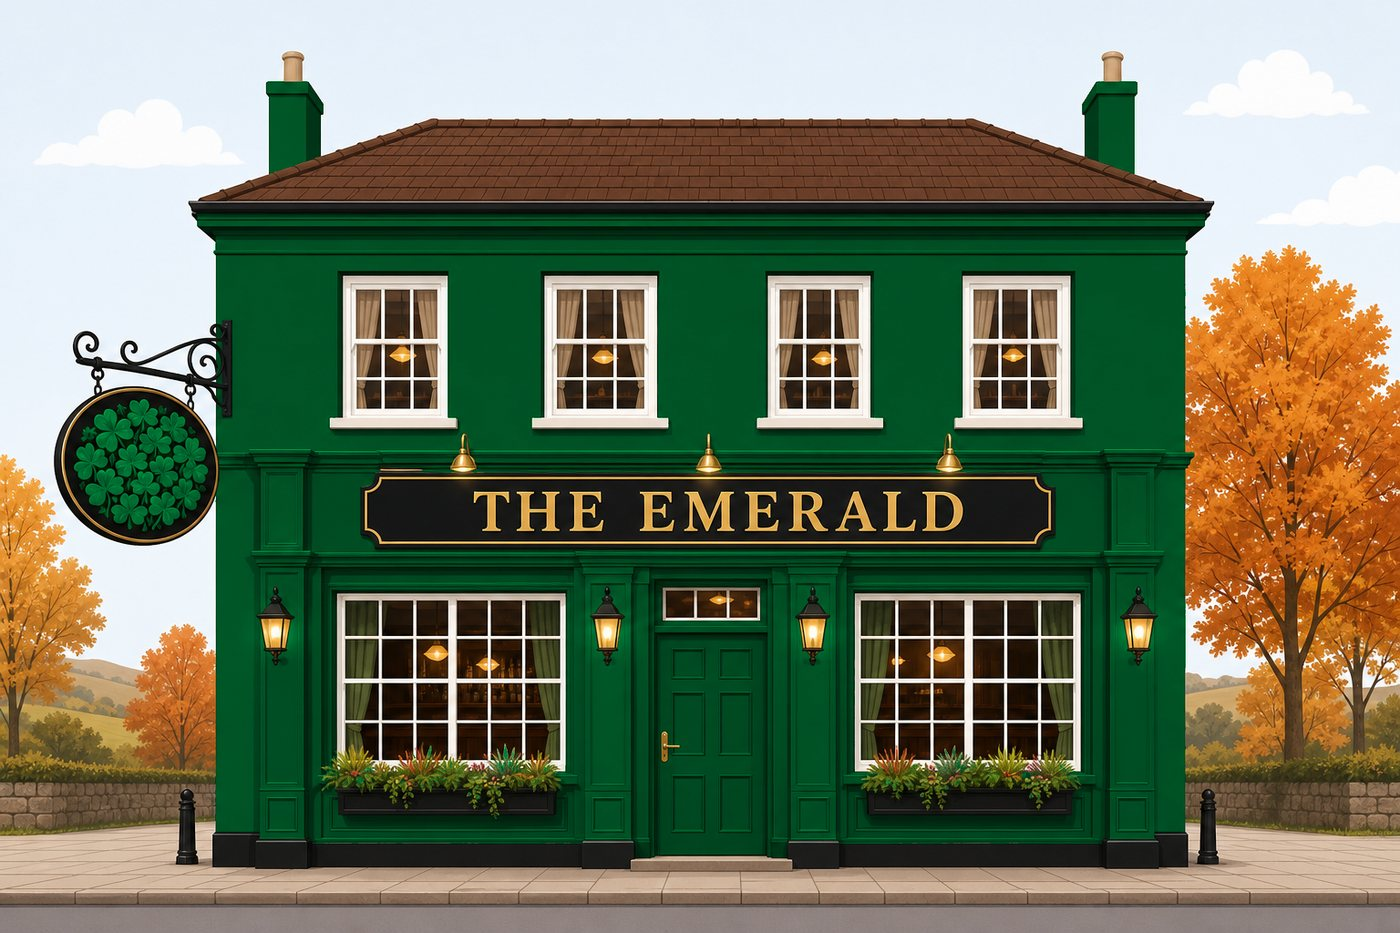
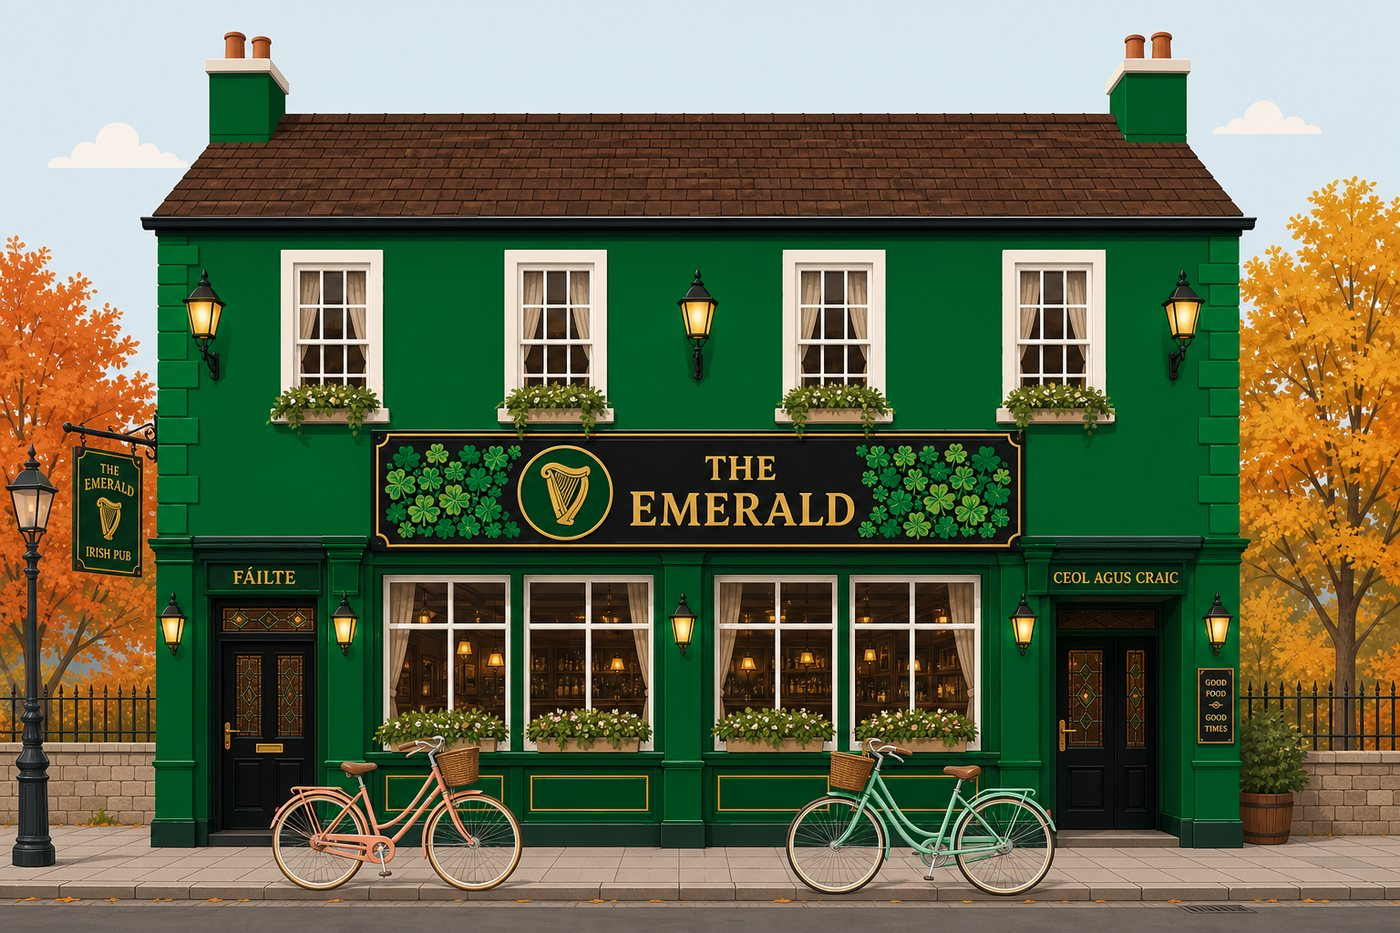
Put Emerald crest and shamrocks on the sign; add peach and mint bikes.

diff --git a/public/emerald/index.html b/public/emerald/index.html
@@ -66,7 +66,7 @@
           <img
             class="hero__img"
             src="./images/hero-pour.jpg"
-            alt="The Emerald on Main Street — emerald green pub with shamrock hanging sign"
+            alt="The Emerald on Main Street — emerald green pub, crest on the sign, peach and mint bicycles outside"
             width="1400"
             height="1050"
             fetchpriority="high"